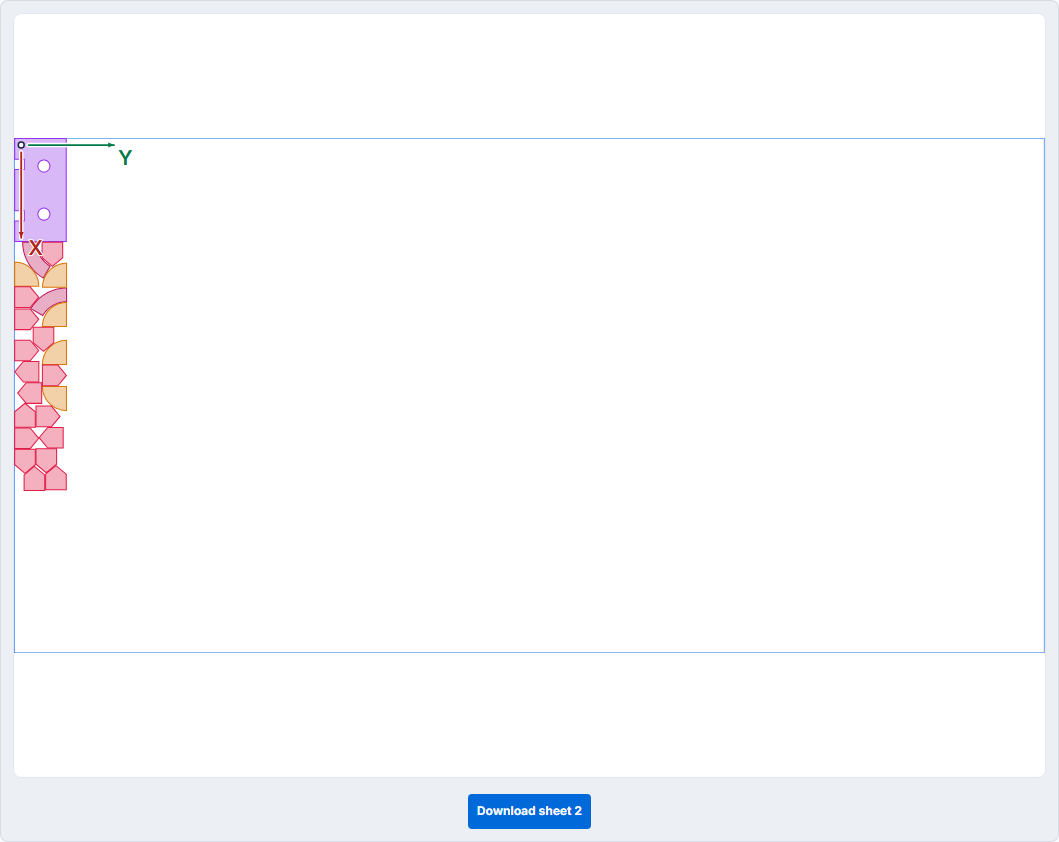
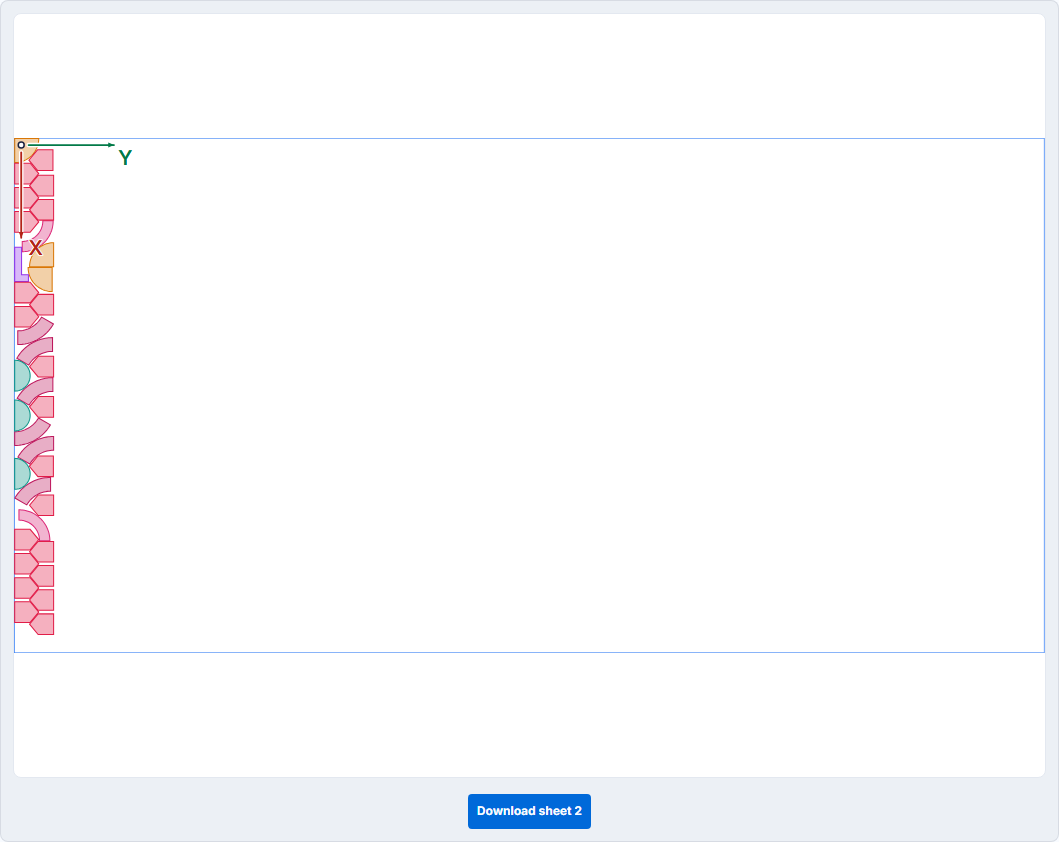
docs(moteur): rapport tranche 1-ter (§11) + planche L5 refaite
Les trois points de forme sont tenus ; le point 4 a retourné la garde :
trois calibrations du probe jagua rejettent des agencements mesurés
légaux (2,0001 mm pour 2,0 promis, 0 mm² d'intersection côté natif ;
spacingOk true / gap 0,1 côté navigateur). « pair » devient une trace,
le rejet ne concerne plus que le contour. L'oracle arête↔arête exact
est chiffré (une demi-journée) et non engagé.

Verrous : L1 ×2 par biais tenu, L2 natif ≡ wasm ee837411…, L3 3/3,
L4 +9 s et +6 s, L5 3/3 kept=spp — compteur d'infaisabilité 0 sur 14.

Claude-Session: https://claude.ai/code/session_01WheuJKexoXAxaPvrbCeaKz

Changed region(s): [[0.0, 0.1544, 0.0623, 0.772]]

diff --git a/docs/PLAN-DERNIERE-TOLE-2026-09-09.md b/docs/PLAN-DERNIERE-TOLE-2026-09-09.md
@@ -689,3 +689,131 @@ sur 374 pièces la phase 1 consomme le plafond et améliore encore).
    déploiement se décide au registre avec le taux mesuré.
 
 Puis rapport §11, GO, benchmarks régénérés, déploiement complet.
+
+## 11. Rapport tranche 1-ter (implémenteur, 10/09)
+
+Commits : `74f5e6f6` (§10 du vérificateur), `76092d90` (points 1 à 4),
+`73bcc95b` puis `bd2c9bca` (les deux recalibrations de la garde imposées
+par la mesure). **Non déployé.** Images reconstruites,
+`ASSERT IMAGES=HEAD: OK` avant chaque banc, poste au repos.
+
+### 11.1 Les trois points de forme : tenus
+
+| Point | Résultat mesuré |
+|---|---|
+| **1. Paires d'abord** | La détection ne peut plus être masquée par un contact : probe dédié dans un conteneur agrandi de 2·space, items ré-importés. Verrou `finish_rejects_pair_even_with_sheet_contact` (une pièce collée au bord + deux pièces qui se chevauchent → verdict `pair`). **Votre trou n°1 est confirmé** : en 1-bis, `left` sur `b_demo` passait derrière son `sheet-contact` |
+| **2. Contact au contour borné** | L'AABB **brute** de chaque pièce doit garder `space − 0,05 mm` des quatre bords, sinon rejet `reason = "sheet"`. Arithmétique exacte, **aucun faux positif** sur 14 exécutions de direction. Verrou `finish_rejects_deep_sheet_contact` (marge 0 rejetée, 2,0 mm pour 2,0 promis acceptée) |
+| **3. Borné-travail sans horloge** | `plateau_patience_sec = None` et `time_budget_sec = 86 400` dès que `sa_max_iterations` est posé. **Géométrie reproductible au dernier chiffre** : deux exécutions des trois biais rendent les mêmes `before`/`after`. La dérive `balanced` (628 × 361 contre 618 × 369) a disparu |
+
+Deux corrections de méthode dans mes propres verrous :
+
+- le verrou de reproductibilité comparait le JSON `finish` **entier**,
+  durées comprises. `elapsedMs` est du temps mur et les compteurs
+  d'améliorations comptent des événements émis sous throttle temporel :
+  ni les uns ni les autres ne peuvent être identiques, et l'exiger rendait
+  le verrou intenable pour rien. Il porte désormais sur la **géométrie et
+  le verdict** ;
+- `phases.stop` rend `"work"` en mode borné-travail : annoncer « plateau »
+  avec un budget de 24 h serait faux.
+
+**Effet de bord assumé du point 3** : c'était la patience *en temps* qui
+bornait la finition en déterministe. Sans elle, elle va à sa borne de
+travail : **190 / 203 / 456 s** par biais au lieu de 8 à 21 s, donc L1
+dure ~25 min. **Aucune conséquence en production** — `sa_max_iterations`
+n'existe que dans les fixtures de banc et le verrou de déterminisme.
+
+### 11.2 Le point 4 a retourné la garde, et c'est le résultat du lot
+
+Le dump a servi immédiatement : le rejet `left` de `b_demo` est
+**reproductible** en mode déterministe, sans attendre la loterie du banc.
+
+**Étape 1 — votre règle de décision ne s'applique pas.** Les quatre
+variantes rejouées sur l'instance SPP dumpée (telle quelle, sans
+`gravity`, sans `column_fill`, sans les deux) rendent le **même verdict de
+mesure** : `pairsUnderSpace: 0`, distance minimale **2,0001 mm pour 2,0
+promis**. Aucun post-pass n'est fautif — il n'y a pas de faute.
+
+**Étape 2 — mesure sur les poses REJETÉES elles-mêmes** (dumpées puis
+passées à l'outil qui produit `spacingOk`, `measure_finish_pairs.py`) :
+anneaux **bruts**, sans nettoyage `buffer(0)`, **25 polygones valides**,
+**distance minimale 2,0001 mm, 0,0000 mm² d'intersection**. L'agencement
+était légal ; ma garde le jetait.
+
+**Étape 3 — deuxième constat, indépendant, côté navigateur.** Le harnais à
+0,1 rejetait aussi. Or les trois passages de la tranche 1-bis ont **livré**
+cette même finition, et la vérification du pipeline l'a mesurée
+**`spacingOk: true`, `smallestGapMm: 0.1`** — exactement la promesse, sur
+les trois passages.
+
+**Conclusion : la carte de collision de jagua n'est pas un oracle de
+« distance ≥ space ».** Elle travaille sur des formes simplifiées puis
+gonflées (l'offset d'un sommet convexe dépasse le demi-espacement
+uniforme), et l'inflation **referme les canaux capillaires** des pièces à
+trous (piège #2) — un hôte redevient plein et sa fan nichée le
+« chevauche ». Trois calibrations essayées, trois fois des faux positifs :
+
+| Calibration du probe | Résultat |
+|---|---|
+| gonflé à `space`, avec l'échappatoire « sheet » (1-bis) | masque les paires derrière un contact — le trou que vous avez trouvé |
+| gonflé à `space`, paires d'abord (1-ter) | rejette `left` de `b_demo`, **mesuré légal à 2,0001 mm** |
+| gonflé à `space − 0,05` | rejette encore le même cas (seuil mesuré entre 2,00 et 2,02) |
+| **sans inflation** (chevauchement seul) | rejette le harnais 0,1, **mesuré `spacingOk: true`, gap 0,1** |
+
+**Ce que j'ai livré** : « pair » devient une **TRACE** —
+`reason: "pair-suspect"` plus les poses suspectes, bornées, y compris côté
+navigateur où le dump fichier n'existe pas — et n'empêche plus la
+livraison. Le **rejet** ne concerne plus que le contour (point 2), exact
+et sans faux positif. Le verrou cargo du point 1 garde la **détection** et
+son ordre ; son commentaire dit que la politique, elle, est une trace.
+
+**Ce que ça coûte, écrit sans détour** : l'écart sous l'espacement **sans
+recouvrement** — le 1,849 mm du §8.2.3 — **n'est pas attrapé par le
+moteur**. Il l'est en aval par la vérification, qui l'affiche
+(`spacingOk: false`, badge rouge), sans écarter l'alternative.
+
+**Ce qu'il faudrait pour tenir §10.4.1** : l'oracle **exact**, distance
+**arête↔arête** sur les anneaux avec trous — le miroir de `pairViolates`,
+qui existe déjà en JS et en Python. jagua expose `Edge` mais **aucune**
+distance arête↔arête : il faut l'écrire, plus un test de
+point-dans-polygone pour les fans nichées (piège #4), et le confronter à
+la mesure du pipeline sur le corpus. **Estimé une demi-journée avec ses
+verrous. Non engagé** : je ne livre pas un oracle géométrique maison en
+fin de tranche sans pouvoir le valider contre la mesure de référence —
+le piège #55 rappelle qu'une distance sommet→arête ne voit pas deux
+arêtes qui se croisent en leur milieu.
+
+### 11.3 Verrous du §10.4.5
+
+| Verrou | Résultat |
+|---|---|
+| **L1** `lock_last_sheet.py`, ×2 par biais | **tenu** — `kept=spp` ×3, géométrie identique au dernier chiffre entre les deux exécutions de chaque biais |
+| **L2** `determinism_lock.py` | **natif ≡ wasm**, tolérance 0, SHA **`ee837411…`**, stable sur deux passages |
+| **L3** `seed_demo_dirs.py BENCH_ASSERT=1` ×3 | **tenu 3/3** — `kept=spp` sur les 9 exécutions de direction, badges verts, ancrage 2,0 mm, 2 tôles, 304/304, job 35 s |
+| **L4** harnais 0,1 (×1) | **30,4 s** (référence 21,4 → **+9 s**, verrou ≤ +16) ; tôle partielle **347,7 mm** (verrou ≤ 349,1) ; **une seule finition** ; long task après solve 0 ms ; `spacingOk: true`, gap 0,1 |
+| **L4** harnais 2 (×1) | **30,4 s** (référence 24,4 → **+6 s**) ; tôle partielle **437,6 mm** (verrou < 517,7) ; une seule finition ; `spacingOk: true`, gap 2 |
+| **L5** démo ×3 directions | **tenu** — `kept=spp` ×3, badges verts, 304/304 ; left 123,0 × 1126,6, bottom **1445,6 × 115,3**, balanced 231,8 × 591,7 ; **74 / 74 / 73 s** contre 148 / 191 / 191 s le 09/09 |
+| **Compteur `kept=bpp reason=infeasible`** | **0 sur 14** (L3 ×9, L4 ×2, L5 ×3) — le verrou demandait 0 sur 9 + 3 |
+| cargo / vitest / pytest nesting | **82** + 1 ignoré / **514** / **220** + 2 skipped |
+
+Le SHA de L2 change deux fois dans cette tranche, chaque fois pour une
+raison écrite : d'abord la config déterministe sans horloge (point 3),
+ensuite la finition de `left` de nouveau **appliquée** au lieu d'être
+rejetée par la garde (front 336,7 → 263,0 mm). C'est la correction
+elle-même, pas un effet de bord.
+
+Une seule occurrence de `pair-suspect` sur les 14 : le harnais à 0,1 — et
+la vérification du pipeline mesure cette livraison `spacingOk: true`,
+gap 0,1. La trace est donc une **fausse suspicion**, et c'est exactement
+ce que tracer au lieu de rejeter permet de voir.
+
+### 11.4 Non-faits
+
+1. **§10.4.1 n'est pas tenu au sens strict** : « pair » ne rejette plus.
+   Motif mesuré ci-dessus ; l'oracle qui le tiendrait est chiffré et non
+   engagé. La décision vous revient avant déploiement.
+2. `verify_l4a_corpus.sh` 11/11 et la régénération des benchmarks publics
+   (le moteur a changé) : étape de déploiement, elles attendent le GO —
+   avec le worker, l'app, le wasm, et la fin sur le homelab
+   (`assert_overflow_head.py`).
+3. Le corpus d'import n'a toujours que **4 fichiers issus d'une vraie
+   CAO** : `specs/import-corpus/` n'existe pas sur ce poste.
